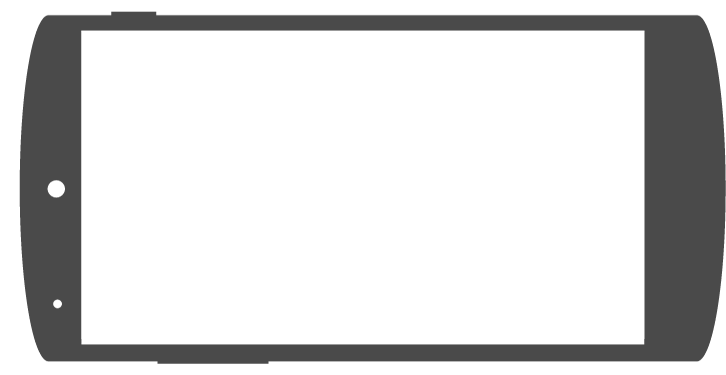
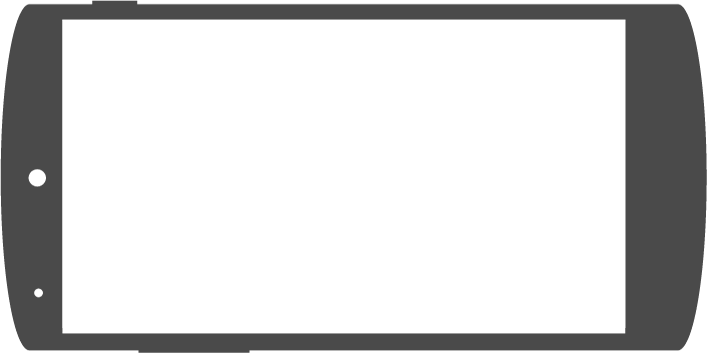
Issue #670 fix: Player preview fails to close on click of outside of the player window

Changed region(s): [[0.0, 0.0, 0.9958, 1.0], [0.9958, 0.6232, 1.0, 0.7167], [0.9958, 0.3116, 1.0, 0.4051]]

diff --git a/org.ekstep.preview-1.1/editor/popup.html b/org.ekstep.preview-1.1/editor/popup.html
@@ -16,12 +16,12 @@
     .main {
       position: relative;
       /*background: white;*/
-      height: 375px;
-      width: 726px;
+          height: 351px;
+    width: 688px;
       margin: 0 auto;
-      padding: 20px;
-      /*resize: both;*/
-      overflow: auto;
+      /*padding: 20px;
+      resize: both;*/
+      /*overflow: auto;*/
     }
 
     .child {
@@ -38,19 +38,22 @@
     }
 
     .preview-bgimage {
-        height: 375px;
-        width: 726px;
+           height: 355px;
+    width: 706px;
         background-size: 726px 375px;
         padding: 0;
     }
 
     .preview-iframe {
         height: 324px;
-        width: 576px;
+    width: 583px;
         padding:0;
         border: none !important;
         overflow: hidden;
     }
+    .ngdialog-theme-plain.preview-window .ngdialog-content{
+      padding:0px;
+    } 
 
     </style>
     

diff --git a/org.ekstep.preview-1.1/editor/plugin.js b/org.ekstep.preview-1.1/editor/plugin.js
@@ -96,7 +96,7 @@ org.ekstep.contenteditor.basePlugin.extend({
             template: 'partials_org.ekstep.preview.html',
             controller: ['$scope', modalController],
             showClose: false,
-            width: 900,
+            width: 710,
             className: 'ngdialog-theme-plain preview-window'
         });
 
